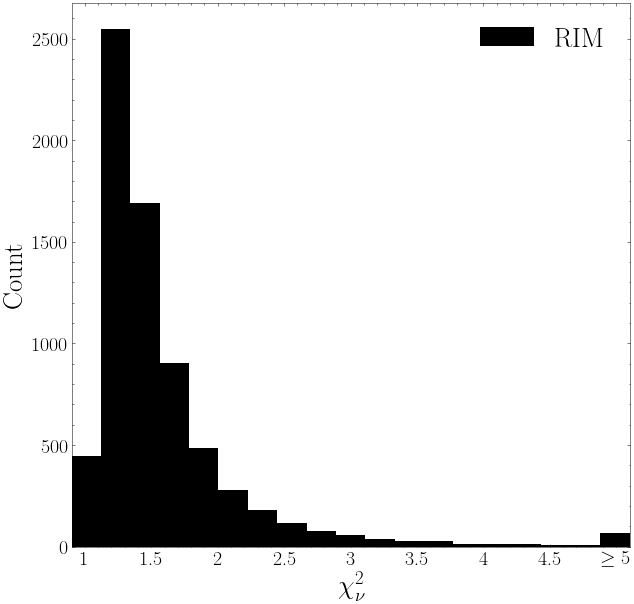
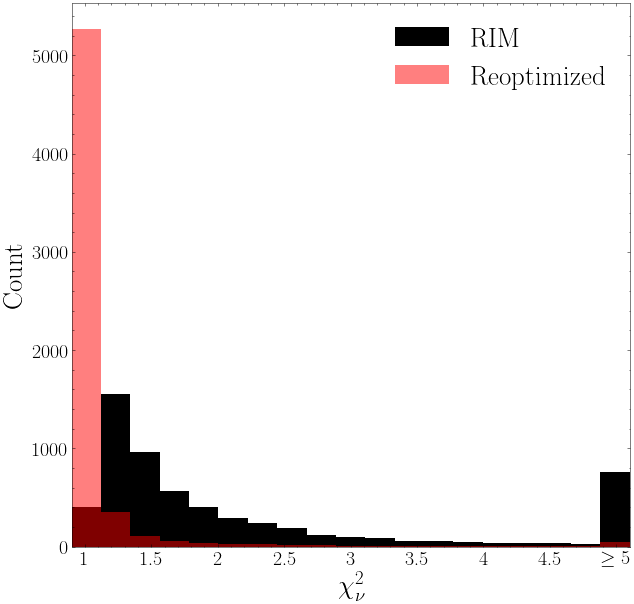
Finished script to do VAE optim on VAE observations
Former-commit-id: 104fd0fc27e3601ad899553345629d6c01565755
Former-commit-id: 716bb6b43119f39f59388db5f05e1046d1b29309 [formerly ddf38a4f95953178501c03ff5756d9af90ad63c0]
Former-commit-id: e716b62b2ac025bce5b6af7c38af9d4a514c02e5

diff --git a/scripts/rim_results_v4_and_optim_posterior_on_vae.py b/scripts/rim_results_v4_and_optim_posterior_on_vae.py
@@ -1,0 +1,308 @@
+from censai import RIMSharedUnetv3, PhysicalModelv2, PowerSpectrum
+from censai.models import SharedUnetModelv4, VAE
+from censai.definitions import LOG10
+import tensorflow as tf
+import numpy as np
+import os, json
+import h5py
+from tqdm import tqdm
+from censai.definitions import log_10, DTYPE
+
+# total number of slurm workers detected
+# defaults to 1 if not running under SLURM
+N_WORKERS = int(os.getenv('SLURM_ARRAY_TASK_COUNT', 1))
+
+# this worker's array index. Assumes slurm array job is zero-indexed
+# defaults to zero if not running under SLURM
+THIS_WORKER = int(os.getenv('SLURM_ARRAY_TASK_ID', 0)) ## it starts from 1!!
+
+
+def distributed_strategy(args):
+    psf_pixels = 20
+    pixels = 128
+    model = os.path.join(os.getenv('CENSAI_PATH'), "models", args.model)
+
+    ps_observation = PowerSpectrum(bins=args.observation_coherence_bins, pixels=pixels)
+    ps_source = PowerSpectrum(bins=args.source_coherence_bins,  pixels=pixels)
+    ps_kappa = PowerSpectrum(bins=args.kappa_coherence_bins,  pixels=pixels)
+
+    phys = PhysicalModelv2(
+        pixels=pixels,
+        kappa_pixels=pixels,
+        src_pixels=pixels,
+        image_fov=7.68,
+        kappa_fov=7.68,
+        src_fov=3.,
+        method="fft",
+    )
+
+    with open(os.path.join(model, "unet_hparams.json")) as f:
+        unet_params = json.load(f)
+    unet_params["kernel_l2_amp"] = args.l2_amp
+    unet = SharedUnetModelv4(**unet_params)
+    ckpt = tf.train.Checkpoint(net=unet)
+    checkpoint_manager = tf.train.CheckpointManager(ckpt, model, 1)
+    checkpoint_manager.checkpoint.restore(checkpoint_manager.latest_checkpoint).expect_partial()
+    with open(os.path.join(model, "rim_hparams.json")) as f:
+        rim_params = json.load(f)
+    rim_params["source_link"] = "relu"
+    rim = RIMSharedUnetv3(phys, unet, **rim_params)
+
+    kvae_path = os.path.join(os.getenv('CENSAI_PATH'), "models", args.kappa_vae)
+    with open(os.path.join(kvae_path, "model_hparams.json"), "r") as f:
+        kappa_vae_hparams = json.load(f)
+    kappa_vae = VAE(**kappa_vae_hparams)
+    ckpt1 = tf.train.Checkpoint(step=tf.Variable(1), net=kappa_vae)
+    checkpoint_manager1 = tf.train.CheckpointManager(ckpt1, kvae_path, 1)
+    checkpoint_manager1.checkpoint.restore(checkpoint_manager1.latest_checkpoint).expect_partial()
+
+    svae_path = os.path.join(os.getenv('CENSAI_PATH'), "models", args.source_vae)
+    with open(os.path.join(svae_path, "model_hparams.json"), "r") as f:
+        source_vae_hparams = json.load(f)
+    source_vae = VAE(**source_vae_hparams)
+    ckpt2 = tf.train.Checkpoint(step=tf.Variable(1), net=source_vae)
+    checkpoint_manager2 = tf.train.CheckpointManager(ckpt2, svae_path, 1)
+    checkpoint_manager2.checkpoint.restore(checkpoint_manager2.latest_checkpoint).expect_partial()
+
+    model_name = os.path.split(model)[-1]
+    wk = tf.keras.layers.Lambda(lambda k: tf.sqrt(k) / tf.reduce_sum(tf.sqrt(k), axis=(1, 2, 3), keepdims=True))
+    with h5py.File(os.path.join(os.getenv("CENSAI_PATH"), "results", args.experiment_name + "_" + model_name + f"_{THIS_WORKER:02d}.h5"), 'w') as hf:
+        data_len = args.size // N_WORKERS
+        hf.create_dataset(name="observation",                            shape=[data_len, phys.pixels, phys.pixels, 1],                                      dtype=np.float32)
+        hf.create_dataset(name="psf",                                    shape=[data_len, psf_pixels, psf_pixels, 1],  dtype=np.float32)
+        hf.create_dataset(name="psf_fwhm",                               shape=[data_len],                                                                   dtype=np.float32)
+        hf.create_dataset(name="noise_rms",                              shape=[data_len],                                                                   dtype=np.float32)
+        hf.create_dataset(name="source",                                 shape=[data_len, phys.src_pixels, phys.src_pixels, 1],                              dtype=np.float32)
+        hf.create_dataset(name="kappa",                                  shape=[data_len, phys.kappa_pixels, phys.kappa_pixels, 1],                          dtype=np.float32)
+        hf.create_dataset(name="observation_prior",                             shape=[data_len, phys.pixels, phys.pixels, 1],                                      dtype=np.float32)
+        hf.create_dataset(name="observation_pred",                              shape=[data_len, phys.pixels, phys.pixels, 1],                                      dtype=np.float32)
+        hf.create_dataset(name="observation_pred_reoptimized",                  shape=[data_len, phys.pixels, phys.pixels, 1],                                      dtype=np.float32)
+        hf.create_dataset(name="source_prior",                           shape=[data_len, phys.src_pixels, phys.src_pixels, 1],                              dtype=np.float32)
+        hf.create_dataset(name="source_pred",                            shape=[data_len, rim.steps, phys.src_pixels, phys.src_pixels, 1],                   dtype=np.float32)
+        hf.create_dataset(name="source_pred_reoptimized",                shape=[data_len, phys.src_pixels, phys.src_pixels, 1],                              dtype=np.float32)
+        hf.create_dataset(name="kappa_prior",                            shape=[data_len, phys.kappa_pixels, phys.kappa_pixels, 1],                          dtype=np.float32)
+        hf.create_dataset(name="kappa_pred",                             shape=[data_len, rim.steps, phys.kappa_pixels, phys.kappa_pixels, 1],               dtype=np.float32)
+        hf.create_dataset(name="kappa_pred_reoptimized",                 shape=[data_len, phys.kappa_pixels, phys.kappa_pixels, 1],                          dtype=np.float32)
+        hf.create_dataset(name="chi_squared",                            shape=[data_len, rim.steps],                                                        dtype=np.float32)
+        hf.create_dataset(name="chi_squared_reoptimized",                shape=[data_len, rim.steps],                                                        dtype=np.float32)
+        hf.create_dataset(name="chi_squared_reoptimized_series",         shape=[data_len, rim.steps, args.re_optimize_steps],                                dtype=np.float32)
+        hf.create_dataset(name="sampled_chi_squared_reoptimized_series", shape=[data_len, args.re_optimize_steps],                                           dtype=np.float32)
+        hf.create_dataset(name="source_optim_mse",                       shape=[data_len],                                                                   dtype=np.float32)
+        hf.create_dataset(name="source_optim_mse_series",                shape=[data_len, args.re_optimize_steps],                                           dtype=np.float32)
+        hf.create_dataset(name="sampled_source_optim_mse_series",        shape=[data_len, args.re_optimize_steps],                                           dtype=np.float32)
+        hf.create_dataset(name="kappa_optim_mse",                        shape=[data_len],                                                                   dtype=np.float32)
+        hf.create_dataset(name="kappa_optim_mse_series",                 shape=[data_len, args.re_optimize_steps],                                           dtype=np.float32)
+        hf.create_dataset(name="sampled_kappa_optim_mse_series",         shape=[data_len, args.re_optimize_steps],                                           dtype=np.float32)
+        hf.create_dataset(name="latent_kappa_gt_distance_init",          shape=[data_len, kappa_vae.latent_size],                                            dtype=np.float32)
+        hf.create_dataset(name="latent_source_gt_distance_init",         shape=[data_len, source_vae.latent_size],                                           dtype=np.float32)
+        hf.create_dataset(name="latent_kappa_gt_distance_end",           shape=[data_len, kappa_vae.latent_size],                                            dtype=np.float32)
+        hf.create_dataset(name="latent_source_gt_distance_end",          shape=[data_len, source_vae.latent_size],                                           dtype=np.float32)
+        hf.create_dataset(name="source_coherence_spectrum",              shape=[data_len, args.source_coherence_bins],                                       dtype=np.float32)
+        hf.create_dataset(name="source_coherence_spectrum_reoptimized",  shape=[data_len, args.source_coherence_bins],                                       dtype=np.float32)
+        hf.create_dataset(name="observation_coherence_spectrum",                shape=[data_len, args.observation_coherence_bins],                                         dtype=np.float32)
+        hf.create_dataset(name="observation_coherence_spectrum_reoptimized",    shape=[data_len, args.observation_coherence_bins],                                         dtype=np.float32)
+        hf.create_dataset(name="kappa_coherence_spectrum",               shape=[data_len, args.kappa_coherence_bins],                                        dtype=np.float32)
+        hf.create_dataset(name="kappa_coherence_spectrum_reoptimized",   shape=[data_len, args.kappa_coherence_bins],                                        dtype=np.float32)
+        hf.create_dataset(name="observation_frequencies",                       shape=[args.observation_coherence_bins],                                                   dtype=np.float32)
+        hf.create_dataset(name="source_frequencies",                     shape=[args.source_coherence_bins],                                                 dtype=np.float32)
+        hf.create_dataset(name="kappa_frequencies",                      shape=[args.kappa_coherence_bins],                                                  dtype=np.float32)
+        hf.create_dataset(name="kappa_fov",                              shape=[1],                                                                          dtype=np.float32)
+        hf.create_dataset(name="source_fov",                             shape=[1],                                                                          dtype=np.float32)
+        hf.create_dataset(name="observation_fov",                               shape=[1],                                                                          dtype=np.float32)
+        for i in range(data_len):
+            checkpoint_manager.checkpoint.restore(checkpoint_manager.latest_checkpoint).expect_partial()  # reset model weights
+
+            # Produce an observation
+            kappa = 10**kappa_vae.sample(1)
+            source = tf.nn.relu(source_vae.sample(1))
+            sampled_source /= tf.reduce_max(sampled_source, axis=(1, 2, 3), keepdims=True)
+            noise_rms = 10**tf.random.uniform(shape=[1], minval=-3, maxval=-1)
+            fwhm = tf.random.uniform(shape=[1], minval=0.06, maxval=0.3)
+            psf = phys.psf_models(fwhm, cutout_size=psf_pixels)
+            observation = phys.noisy_forward(source, kappa, noise_rms, psf)
+
+            # RIM predictions for kappa and source
+            source_pred, kappa_pred, chi_squared = rim.predict(observation, noise_rms, psf)
+            observation_pred = phys.forward(source_pred[-1], kappa_pred[-1], psf)
+            source_o = source_pred[-1]
+            kappa_o = kappa_pred[-1]
+
+            # Ground truth latent code for oracle metrics
+            z_source_gt, _ = source_vae.encoder(source)
+            z_kappa_gt, _ = kappa_vae.encoder(log_10(kappa))
+
+            # Re-optimize weights of the model
+            STEPS = args.re_optimize_steps
+            learning_rate_schedule = tf.keras.optimizers.schedules.ExponentialDecay(
+                initial_learning_rate=args.learning_rate,
+                decay_rate=args.decay_rate,
+                decay_steps=args.decay_steps,
+                staircase=args.staircase
+            )
+            optim = tf.keras.optimizers.RMSprop(learning_rate=learning_rate_schedule)
+
+            chi_squared_series = tf.TensorArray(DTYPE, size=STEPS)
+            chi_squared_series_mean_pred = tf.TensorArray(DTYPE, size=STEPS - args.burn_in)
+            source_mse = tf.TensorArray(DTYPE, size=STEPS)
+            kappa_mse = tf.TensorArray(DTYPE, size=STEPS)
+            sampled_chi_squared_series = tf.TensorArray(DTYPE, size=STEPS)
+            sampled_source_mse = tf.TensorArray(DTYPE, size=STEPS)
+            sampled_kappa_mse = tf.TensorArray(DTYPE, size=STEPS)
+
+            best = chi_squared
+            source_best = source_pred[-1]
+            kappa_best = kappa_pred[-1]
+            source_mse_best = tf.reduce_mean((source_best - source) ** 2)
+            kappa_mse_best = tf.reduce_mean((kappa_best - log_10(kappa)) ** 2)
+
+            # ===================== Optimization ==============================
+            for current_step in tqdm(range(STEPS)):
+                # ===================== VAE SAMPLING ==============================
+                # Latent code of model predictions
+                z_source, _ = source_vae.encoder(source_o)
+                z_kappa, _ = kappa_vae.encoder(log_10(kappa_o))
+
+                # L1 distance with ground truth in latent space -- this is changed by an user defined value when using real data
+                # z_source_std = tf.abs(z_source - z_source_gt)
+                # z_kappa_std = tf.abs(z_kappa - z_kappa_gt)
+                z_source_std = args.source_vae_ball_size
+                z_kappa_std = args.kappa_vae_ball_size
+
+                # Sample latent code, then decode and forward
+                z_s = tf.random.normal(shape=[args.sample_size, source_vae.latent_size], mean=z_source, stddev=z_source_std)
+                z_k = tf.random.normal(shape=[args.sample_size, kappa_vae.latent_size], mean=z_kappa, stddev=z_kappa_std)
+                sampled_source = tf.nn.relu(source_vae.decode(z_s))
+                sampled_source /= tf.reduce_max(sampled_source, axis=(1, 2, 3), keepdims=True)
+                sampled_kappa = kappa_vae.decode(z_k)  # output in log_10 space
+                sampled_observation = phys.noisy_forward(sampled_source, 10 ** sampled_kappa, noise_rms, tf.tile(psf, [args.sample_size, 1, 1, 1]))
+                with tf.GradientTape() as tape:
+                    tape.watch(unet.trainable_variables)
+                    s, k, chi_sq = rim.call(sampled_observation, noise_rms, tf.tile(psf, [args.sample_size, 1, 1, 1]), outer_tape=tape)
+                    _kappa_mse = tf.reduce_sum(wk(10**sampled_kappa) * (k - sampled_kappa) ** 2, axis=(2, 3, 4))
+                    cost = tf.reduce_mean(_kappa_mse)
+                    cost += tf.reduce_mean((s - sampled_source)**2)
+                    cost += tf.reduce_sum(rim.unet.losses)  # weight decay
+
+                grads = tape.gradient(cost, unet.trainable_variables)
+                optim.apply_gradients(zip(grads, unet.trainable_variables))
+
+                # Record performance on sampled dataset
+                sampled_chi_squared_series = sampled_chi_squared_series.write(index=current_step, value=tf.squeeze(tf.reduce_mean(chi_sq[-1])))
+                sampled_source_mse = sampled_source_mse.write(index=current_step, value=tf.reduce_mean((s[-1] - sampled_source) ** 2))
+                sampled_kappa_mse = sampled_kappa_mse.write(index=current_step, value=tf.reduce_mean((k[-1] - sampled_kappa) ** 2))
+                # Record model prediction on data
+                s, k, chi_sq = rim.call(observation, noise_rms, psf)
+                chi_squared_series = chi_squared_series.write(index=current_step, value=tf.squeeze(chi_sq))
+                source_o = s[-1]
+                kappa_o = k[-1]
+                # oracle metrics, remove when using real data
+                source_mse = source_mse.write(index=current_step, value=tf.reduce_mean((source_o - source) ** 2))
+                kappa_mse = kappa_mse.write(index=current_step, value=tf.reduce_mean((kappa_o - log_10(kappa)) ** 2))
+
+                if chi_sq[-1, 0] < best[-1, 0]:
+                    source_best = tf.nn.relu(source_o)
+                    kappa_best = 10**kappa_o
+                    best = chi_sq
+                    source_mse_best = tf.reduce_mean((source_best - source) ** 2)
+                    kappa_mse_best = tf.reduce_mean((kappa_best - log_10(kappa)) ** 2)
+
+            source_o = source_best
+            kappa_o = kappa_best
+            y_pred = phys.forward(source_o, kappa_o, psf)
+
+            chi_sq_series = tf.transpose(chi_squared_series.stack())
+            source_mse = source_mse.stack()
+            kappa_mse = kappa_mse.stack()
+            sampled_chi_squared_series = sampled_chi_squared_series.stack()
+            chi_squared_series_mean_pred = chi_squared_series_mean_pred.stack()
+            sampled_source_mse = sampled_source_mse.stack()
+            sampled_kappa_mse = sampled_kappa_mse.stack()
+
+            # Latent code of optimized model predictions
+            z_source_opt, _ = source_vae.encoder(tf.nn.relu(source_o))
+            z_kappa_opt, _ = kappa_vae.encoder(log_10(kappa_o))
+
+            # Compute Power spectrum of converged predictions
+            _ps_observation = ps_observation.cross_correlation_coefficient(observation[..., 0], observation_pred[..., 0])
+            _ps_observation2 = ps_observation.cross_correlation_coefficient(observation[..., 0], y_pred[..., 0])
+            _ps_kappa = ps_kappa.cross_correlation_coefficient(log_10(kappa)[..., 0], log_10(kappa_pred[-1])[..., 0])
+            _ps_kappa2 = ps_kappa.cross_correlation_coefficient(log_10(kappa)[..., 0], log_10(kappa_o[..., 0]))
+            _ps_source = ps_source.cross_correlation_coefficient(source[..., 0], source_pred[-1][..., 0])
+            _ps_source2 = ps_source.cross_correlation_coefficient(source[..., 0], source_o[..., 0])
+
+            # save results
+            hf["observation"][i] = observation.numpy().astype(np.float32)
+            hf["psf"][i] = psf.numpy().astype(np.float32)
+            hf["psf_fwhm"][i] = fwhm.numpy().astype(np.float32)
+            hf["noise_rms"][i] = noise_rms.numpy().astype(np.float32)
+            hf["source"][i] = source.numpy().astype(np.float32)
+            hf["kappa"][i] = kappa.numpy().astype(np.float32)
+            hf["observation_prior"][i] = sampled_observation[0].numpy().astype(np.float32)
+            hf["observation_pred"][i] = observation_pred.numpy().astype(np.float32)
+            hf["observation_pred_reoptimized"][i] = y_pred.numpy().astype(np.float32)
+            hf["source_prior"][i] = sampled_source[0].numpy().astype(np.float32)
+            hf["source_pred"][i] = tf.transpose(source_pred, perm=(1, 0, 2, 3, 4)).numpy().astype(np.float32)
+            hf["source_pred_reoptimized"][i] = source_o.numpy().astype(np.float32)
+            hf["kappa_prior"][i] = 10**sampled_kappa[0].numpy().astype(np.float32)
+            hf["kappa_pred"][i] = tf.transpose(kappa_pred, perm=(1, 0, 2, 3, 4)).numpy().astype(np.float32)
+            hf["kappa_pred_reoptimized"][i] = kappa_o.numpy().astype(np.float32)
+            hf["chi_squared"][i] = 2*tf.squeeze(chi_squared).numpy().astype(np.float32)
+            hf["chi_squared_reoptimized"][i] = 2*tf.squeeze(best).numpy().astype(np.float32)
+            hf["chi_squared_reoptimized_series"][i] = 2*chi_sq_series.numpy().astype(np.float32)
+            hf["sampled_chi_squared_reoptimized_series"][i] = 2*sampled_chi_squared_series.numpy().astype(np.float32)
+            hf["chi_squared_reoptimized_mean_pred_series"][i] = chi_squared_series_mean_pred.numpy().astype(np.float32)
+            hf["source_optim_mse"][i] = source_mse_best.numpy().astype(np.float32)
+            hf["source_optim_mse_series"][i] = source_mse.numpy().astype(np.float32)
+            hf["sampled_source_optim_mse_series"][i] = sampled_source_mse.numpy().astype(np.float32)
+            hf["kappa_optim_mse"][i] = kappa_mse_best.numpy().astype(np.float32)
+            hf["kappa_optim_mse_series"][i] = kappa_mse.numpy().astype(np.float32)
+            hf["sampled_kappa_optim_mse_series"][i] = sampled_kappa_mse.numpy().astype(np.float32)
+            hf["latent_source_gt_distance_init"][i] = tf.abs(z_source - z_source_gt).numpy().squeeze().astype(np.float32)
+            hf["latent_kappa_gt_distance_init"][i] = tf.abs(z_kappa - z_kappa_gt).numpy().squeeze().astype(np.float32)
+            hf["latent_source_gt_distance_end"][i] = tf.abs(z_source_opt - z_source_gt).numpy().squeeze().astype(np.float32)
+            hf["latent_kappa_gt_distance_end"][i] = tf.abs(z_kappa_opt - z_kappa_gt).numpy().squeeze().astype(np.float32)
+            hf["observation_coherence_spectrum"][i] = _ps_observation
+            hf["observation_coherence_spectrum_reoptimized"][i] = _ps_observation2
+            hf["source_coherence_spectrum"][i] = _ps_source
+            hf["source_coherence_spectrum_reoptimized"][i] = _ps_source2
+            hf["kappa_coherence_spectrum"][i] = _ps_kappa
+            hf["kappa_coherence_spectrum_reoptimized"][i] = _ps_kappa2
+
+            if i == 0:
+                _, f = np.histogram(np.fft.fftfreq(phys.pixels)[:phys.pixels//2], bins=ps_observation.bins)
+                f = (f[:-1] + f[1:]) / 2
+                hf["observation_frequencies"][:] = f
+                _, f = np.histogram(np.fft.fftfreq(phys.src_pixels)[:phys.src_pixels//2], bins=ps_source.bins)
+                f = (f[:-1] + f[1:]) / 2
+                hf["source_frequencies"][:] = f
+                _, f = np.histogram(np.fft.fftfreq(phys.kappa_pixels)[:phys.kappa_pixels//2], bins=ps_kappa.bins)
+                f = (f[:-1] + f[1:]) / 2
+                hf["kappa_frequencies"][:] = f
+                hf["kappa_fov"][0] = phys.kappa_fov
+                hf["source_fov"][0] = phys.src_fov
+
+
+if __name__ == '__main__':
+    from argparse import ArgumentParser
+    parser = ArgumentParser()
+    parser.add_argument("--experiment_name",    default="reoptim")
+    parser.add_argument("--model",              required=True,      help="Model to get predictions from")
+    parser.add_argument("--source_vae",         required=True)
+    parser.add_argument("--kappa_vae",          required=True)
+    parser.add_argument("--size",               default=1000, type=int)
+    parser.add_argument("--sample_size",        default=2,  type=int)
+
+    parser.add_argument("--observation_coherence_bins",    default=40,     type=int)
+    parser.add_argument("--source_coherence_bins",  default=40,     type=int)
+    parser.add_argument("--kappa_coherence_bins",   default=40,     type=int)
+    parser.add_argument("--re_optimize_steps",  default=2000,       type=int)
+    parser.add_argument("--source_vae_ball_size",   default=0.5,    type=float, help="Standard deviation of the source VAE latent space sampling around RIM prediction")
+    parser.add_argument("--kappa_vae_ball_size",    default=0.5,    type=float, help="Standard deviation of the kappa VAE latent space sampling around RIM prediction")
+    parser.add_argument("--l2_amp",             default=1e-6,       type=float)
+    parser.add_argument("--learning_rate",      default=1e-6,       type=float)
+    parser.add_argument("--decay_rate",         default=1,          type=float)
+    parser.add_argument("--decay_steps",        default=50,         type=float)
+    parser.add_argument("--staircase",          action="store_true")
+
+    args = parser.parse_args()
+    distributed_strategy(args)

diff --git a/scripts/kappa_tfrecords_to_h5.py b/scripts/kappa_tfrecords_to_h5.py
@@ -1,0 +1,34 @@
+import tensorflow as tf
+from censai.data.kappa_tng import decode_train, decode_shape
+import h5py, json, os, glob
+from tqdm import tqdm
+import numpy as np
+
+
+def main(args):
+    with open(os.path.join(args.dataset, "script_params.json")) as f:
+        params = json.load(f)
+    compression_type = params["compression_type"]
+    len_dataset = params["len_dataset"]
+    files = glob.glob(os.path.join(args.dataset, "*.tfrecords"))
+    files = tf.data.Dataset.from_tensor_slices(files)
+    dataset = files.interleave(lambda x: tf.data.TFRecordDataset(x, compression_type=compression_type),
+                               block_length=1, num_parallel_calls=tf.data.AUTOTUNE)
+    for pixels in dataset.map(decode_shape):
+        break
+    dataset = dataset.map(decode_train).batch(args.batch_size)
+    with h5py.File(args.output_path, "w") as hf:
+        hf.create_dataset("kappa", shape=[len_dataset, pixels, pixels], compression="gzip")
+        for i, kappa in tqdm(enumerate(dataset)):
+            hf["kappa"][i*args.batch_size:(i+1)*args.batch_size] = kappa.numpy().squeeze().astype(np.float32)
+
+
+if __name__ == '__main__':
+    from argparse import ArgumentParser
+    parser = ArgumentParser()
+    parser.add_argument("--dataset", required=True)
+    parser.add_argument("--output_path", required=True)
+    parser.add_argument("--batch_size", default=10, type=int)
+
+    args = parser.parse_args()
+    main(args)
